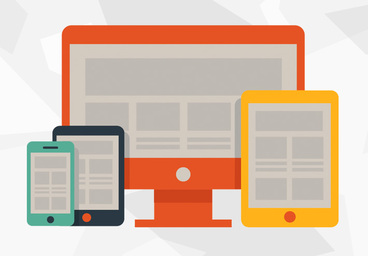
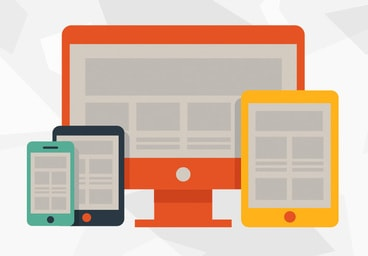
compress images

diff --git a/index-main.html b/index-main.html
@@ -196,25 +196,25 @@
 										<p>We cant help everyone but everyone can help someone.</p>
 										<ul class="icons">
 											<li>
-												<a href="https://twitter.com/AzizPra"><img src="images/twitter.png"></a>
+												<a href="https://twitter.com/AzizPra" target="_blank"><img src="images/twitter.png"></a>
 											</li>
 											<li>
-												<a href="https://www.facebook.com/Azizpratapgarhwala"><img src="images/facebook.png"></a>
+												<a href="https://www.facebook.com/Azizpratapgarhwala" target="_blank"><img src="images/facebook.png"></a>
 											</li>
 											<li>
-												<a href="https://instagram.com/azizpratapgarhwala/">
+												<a href="https://instagram.com/azizpratapgarhwala/" target="_blank">
 												<img src="images/instagram.png"></a>
 											</li>
 											<li>
-												<a href="https://in.pinterest.com/azizpratapgarhw/">
+												<a href="https://in.pinterest.com/azizpratapgarhw/" target="_blank">
 												<img src="images/pinterest.png"></a>
 											</li>
 											<li>
-												<a href="https://plus.google.com/u/0/103907435389054555580/posts">
+												<a href="https://plus.google.com/u/0/103907435389054555580/posts" target="_blank">
 												<img src="images/google-plus.png"></a>
 											</li>
 											<li>
-												<a href="https://in.linkedin.com/pub/aziz-pratapgarh-wala/50/2a6/86b">
+												<a href="https://in.linkedin.com/pub/aziz-pratapgarh-wala/50/2a6/86b" target="_blank">
 												<img src="images/linkedin.png"></a>
 											</li>
 										</ul>

diff --git a/index.html b/index.html
@@ -5,7 +5,7 @@
 <meta charset=utf-8 />
 <meta name=viewport content="width=device-width, initial-scale=1" />
 <link rel=icon href=favicon.ico type=image/gif sizes=16x16>
-<link rel=stylesheet href=assets/css/main.min.css />
+<link rel=stylesheet href=assets/css/main.css />
 </head>
 <body class=homepage>
 <div id=page-wrapper>
@@ -144,25 +144,25 @@ Software developer at Percoyo
 <p>We cant help everyone but everyone can help someone.</p>
 <ul class=icons>
 <li>
-<a href=https://twitter.com/AzizPra><img src=images/twitter.png></a>
+<a href=https://twitter.com/AzizPra target=_blank><img src=images/twitter.png></a>
 </li>
 <li>
-<a href=https://www.facebook.com/Azizpratapgarhwala><img src=images/facebook.png></a>
+<a href=https://www.facebook.com/Azizpratapgarhwala target=_blank><img src=images/facebook.png></a>
 </li>
 <li>
-<a href=https://instagram.com/azizpratapgarhwala/>
+<a href=https://instagram.com/azizpratapgarhwala/ target=_blank>
 <img src=images/instagram.png></a>
 </li>
 <li>
-<a href=https://in.pinterest.com/azizpratapgarhw/>
+<a href=https://in.pinterest.com/azizpratapgarhw/ target=_blank>
 <img src=images/pinterest.png></a>
 </li>
 <li>
-<a href=https://plus.google.com/u/0/103907435389054555580/posts>
+<a href=https://plus.google.com/u/0/103907435389054555580/posts target=_blank>
 <img src=images/google-plus.png></a>
 </li>
 <li>
-<a href=https://in.linkedin.com/pub/aziz-pratapgarh-wala/50/2a6/86b>
+<a href=https://in.linkedin.com/pub/aziz-pratapgarh-wala/50/2a6/86b target=_blank>
 <img src=images/linkedin.png></a>
 </li>
 </ul>
